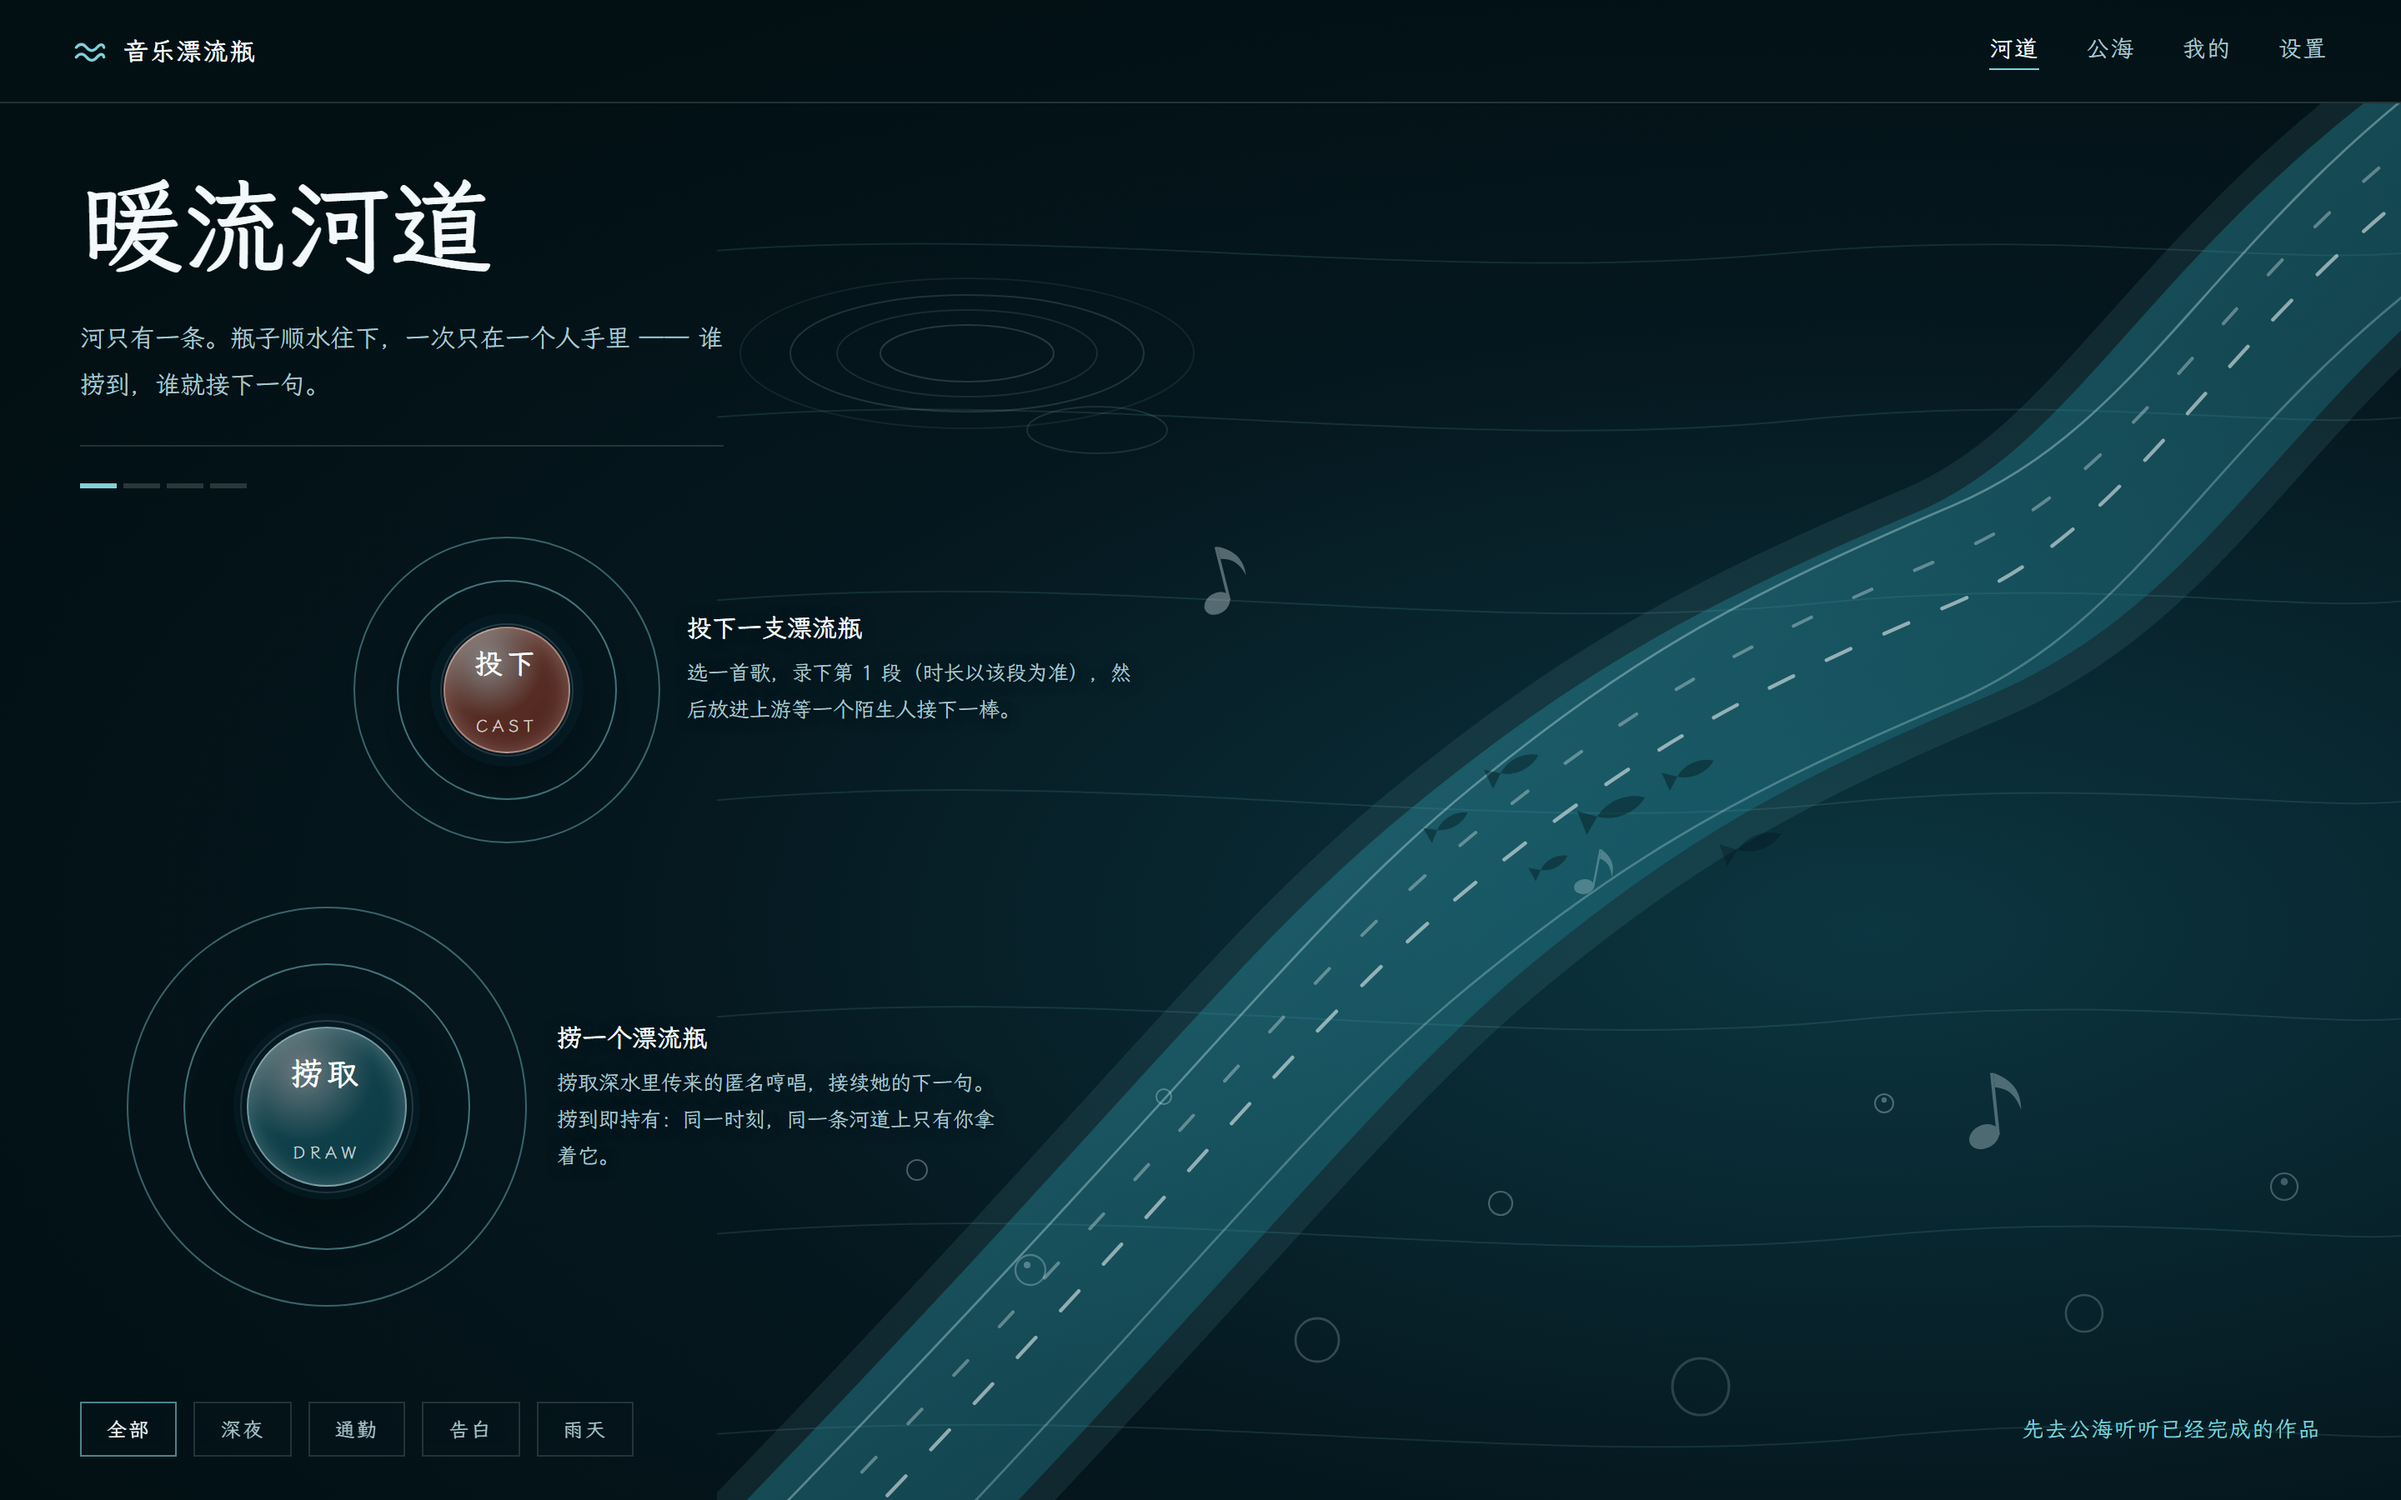
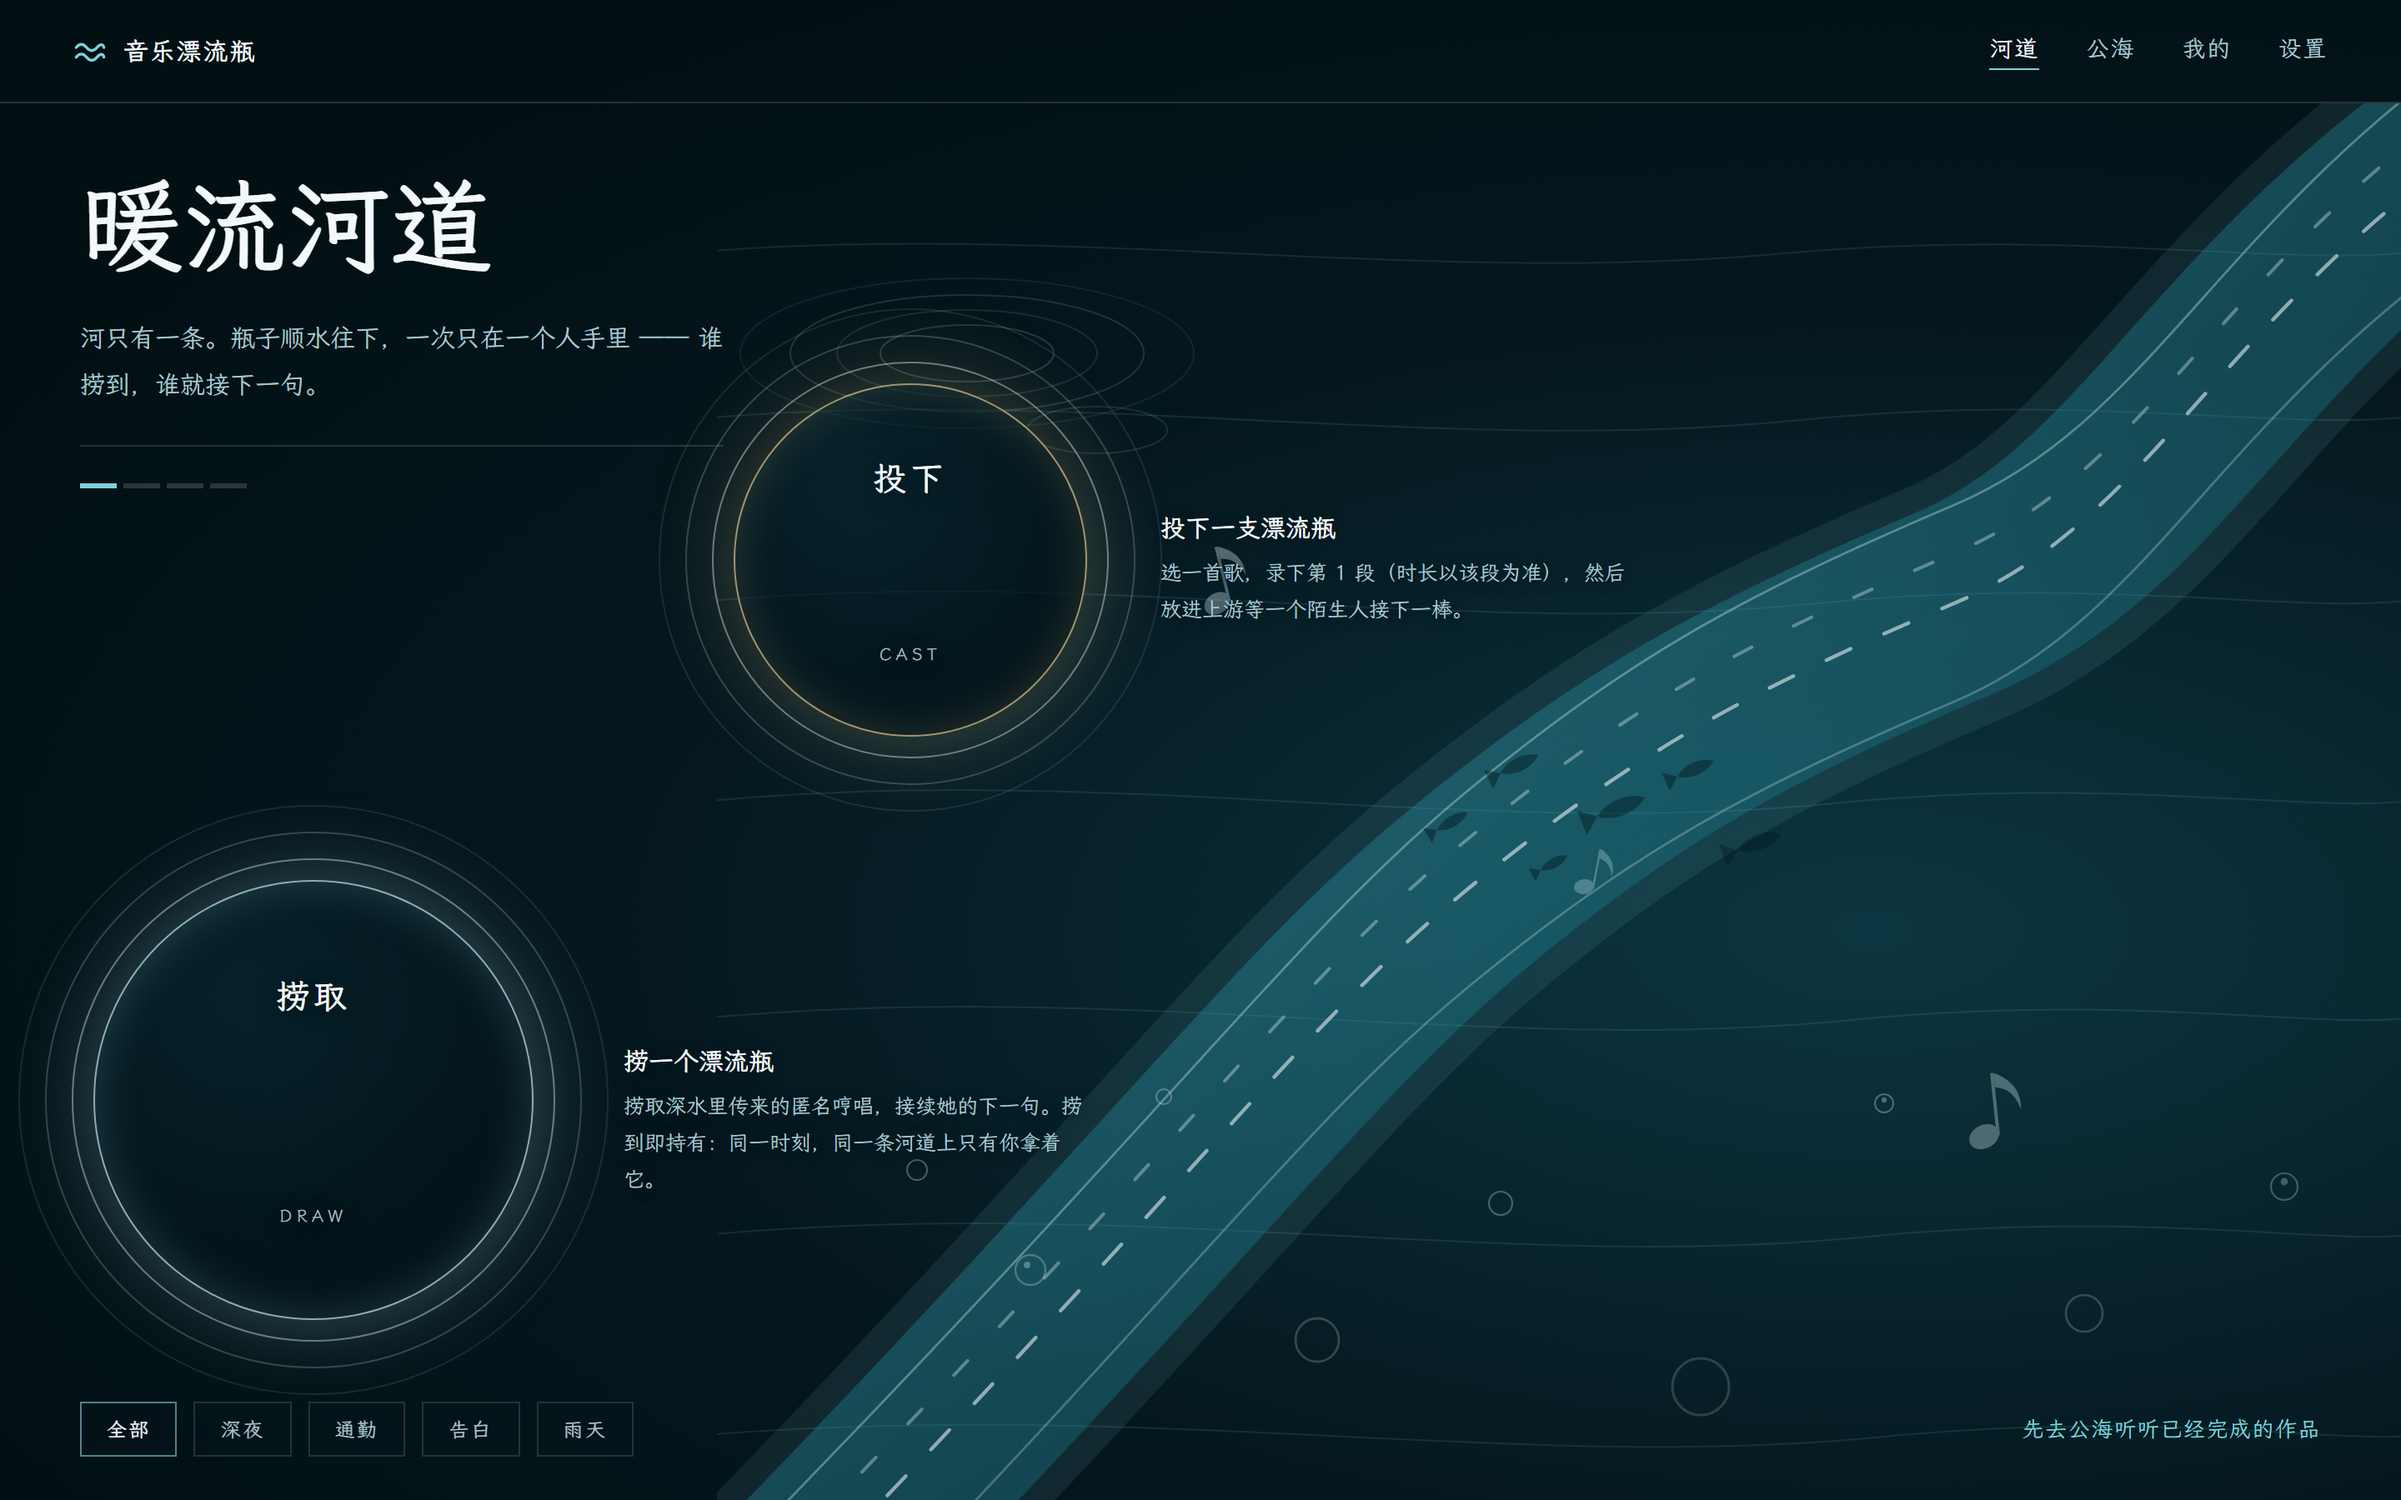
docs(design-explore): 按钮照搬 g3（深色半透盘 + 边缘冷/暖微光，盘身不填色）+ F1 按钮放大到明显大于 F4
用户裁决：『有颜色太丑了，按钮直接照搬 g3』。照抄 g3 的 .orb 数值：深色半透径向盘（76% 76% at 34% 26%，rgba(10,48,60,.46)→rgba(3,17,23,.74)）、1px 亮边、外环 13/29/45px；颜色只留在边缘微光上（捞取=冰青 cold、投下=淡金 warm），**盘身不再填珊瑚/孔雀色**。

用户裁决：『f1 的按钮扩大到至少比 f4 还大』。F1：捞取 264、投下 212（F4 是 156）；两枚仍不同尺寸、错落。同时把说明文字外移以避开新增的外环（F4 也一样）。

影响面（写进待办，不算完成）：① 主 CTA 从此不再是 DESIGN.md 里的 peacock/coral 填充，『coral 只用于 CTA 强调』那条口径事实上失效，写契约时要一并改；② F1 的两个圆盘已占左半约四成面积，再放大就需要重排标题/副标题区域。

diff --git a/docs/ui-review/design-explore/f1-above.html b/docs/ui-review/design-explore/f1-above.html
@@ -42,18 +42,19 @@
       .meter i.on { background: var(--glass); }
 
       /* 圆形主按钮（用户第 ① 条：保留圆形 + 同心环），骑在河道上 */
+      /* 泊位：照搬 g3 的按钮（深色半透圆盘 + 亮边 + 外环），盘身不填彩色 —— 用户："有颜色太丑了" */
       .port { position:absolute; display:grid; place-items:center; cursor:pointer; z-index:3; }
-      .port i { position:absolute; border-radius:50%; }
-      .port .r1 { inset:0; border:1px solid rgba(127,209,217,.42); }
-      .port .r2 { inset:24px; border:1px solid rgba(127,209,217,.5); }
-      .port .r3 { inset:48px; border:1px solid rgba(224,246,249,.58); }
-      .port .core { position:relative; width:104px; height:104px; border-radius:50%; display:grid; place-items:center; gap:2px;
-        font-family:inherit; font-size:16px; font-weight:700; letter-spacing:.14em; color:#fff; }
-      .port .core span { font-size:10px; letter-spacing:.28em; opacity:.75; font-weight:400; }
-      .draw .core { background:radial-gradient(circle at 34% 26%, rgba(240,252,254,.44), rgba(42,157,177,.32) 46%, rgba(11,78,91,.62) 100%);
-        border:1px solid rgba(216,243,246,.5); box-shadow:0 0 0 8px rgba(6,28,37,.72), inset 0 1px 14px rgba(255,255,255,.26), 0 12px 34px rgba(0,0,0,.4); }
-      .cast .core { background:radial-gradient(circle at 34% 26%, rgba(255,238,232,.5), rgba(210,80,47,.4) 46%, rgba(120,36,20,.62) 100%);
-        border:1px solid rgba(255,228,218,.5); box-shadow:0 0 0 8px rgba(6,28,37,.72), inset 0 1px 14px rgba(255,255,255,.28), 0 12px 34px rgba(0,0,0,.4); }
+      .port i { position:absolute; border-radius:50%; pointer-events:none; }
+      .port .r1 { inset:-13px; border:1.5px solid rgba(228,249,252,.42); }
+      .port .r2 { inset:-29px; border:1px solid rgba(228,249,252,.2); }
+      .port .r3 { inset:-45px; border:1px solid rgba(228,249,252,.1); }
+      .port .core { position:relative; width:100%; height:100%; border-radius:50%; display:grid; place-items:center; gap:3px;
+        font-family:inherit; font-size:20px; font-weight:700; letter-spacing:.12em; color:#f3f9fa;
+        background:radial-gradient(76% 76% at 34% 26%, rgba(10,48,60,.5), rgba(3,17,23,.78));
+        text-shadow:0 1px 12px rgba(3,16,22,.95); }
+      .port .core span { font-size:10px; letter-spacing:.28em; opacity:.7; font-weight:400; }
+      .draw .core { border:1px solid rgba(203,238,246,.7); box-shadow:0 0 52px rgba(178,232,244,.3), inset 0 0 28px rgba(160,226,240,.2); }
+      .cast .core { border:1px solid rgba(246,215,154,.66); box-shadow:0 0 52px rgba(246,215,154,.26), inset 0 0 28px rgba(246,215,154,.16); }
       .port .cap { position:absolute; width:290px; font-size:12.5px; line-height:1.75; color:var(--muted);
         text-shadow:0 1px 8px rgba(3,20,26,.95); }
       .port .cap b { display:block; color:var(--paper); font-size:15px; margin-bottom:3px; }
@@ -223,15 +224,15 @@
       <div class="meter"><i class="on"></i><i></i><i></i><i></i></div>
     </div>
 
-    <div class="port draw ov" style="left:76px; top:544px; width:240px; height:240px" role="button" aria-label="捞一个漂流瓶">
-      <i class="r1" style="inset:0"></i><i class="r2" style="inset:34px"></i><i class="r3" style="inset:68px"></i>
-      <span class="core" style="width:96px;height:96px;font-size:19px">捞取<span>DRAW</span></span>
-      <span class="cap" style="left:258px; top:66px; width:270px"><b>捞一个漂流瓶</b>捞取深水里传来的匿名哼唱，接续她的下一句。捞到即持有：同一时刻，同一条河道上只有你拿着它。</span>
+    <div class="port draw ov" style="left:56px; top:528px; width:264px; height:264px" role="button" aria-label="捞一个漂流瓶">
+      <i class="r1"></i><i class="r2"></i><i class="r3"></i>
+      <span class="core">捞取<span>DRAW</span></span>
+      <span class="cap" style="left:318px; top:96px; width:280px"><b>捞一个漂流瓶</b>捞取深水里传来的匿名哼唱，接续她的下一句。捞到即持有：同一时刻，同一条河道上只有你拿着它。</span>
     </div>
-    <div class="port cast ov" style="left:212px; top:322px; width:184px; height:184px" role="button" aria-label="投下一支漂流瓶">
-      <i class="r1" style="inset:0"></i><i class="r2" style="inset:26px"></i><i class="r3" style="inset:52px"></i>
-      <span class="core" style="width:76px;height:76px;font-size:17px">投下<span>CAST</span></span>
-      <span class="cap" style="left:200px; top:42px; width:268px"><b>投下一支漂流瓶</b>选一首歌，录下第 1 段（时长以该段为准），然后放进上游等一个陌生人接下一棒。</span>
+    <div class="port cast ov" style="left:440px; top:230px; width:212px; height:212px" role="button" aria-label="投下一支漂流瓶">
+      <i class="r1"></i><i class="r2"></i><i class="r3"></i>
+      <span class="core">投下<span>CAST</span></span>
+      <span class="cap" style="left:256px; top:74px; width:280px"><b>投下一支漂流瓶</b>选一首歌，录下第 1 段（时长以该段为准），然后放进上游等一个陌生人接下一棒。</span>
     </div>
 
     <footer>

diff --git a/docs/ui-review/design-explore/f4-groove.html b/docs/ui-review/design-explore/f4-groove.html
@@ -30,18 +30,19 @@
       .note b { color:var(--glass); font-weight:400; }
       .rpm { font-family:Quattrocento,serif; font-size:26px; color:var(--glass); }
 
-      .port { position:absolute; display:grid; place-items:center; cursor:pointer; }
-      .port i { position:absolute; border-radius:50%; }
-      .port .r1 { inset:0; border:1px solid rgba(127,209,217,.42); }
-      .port .r2 { inset:24px; border:1px solid rgba(127,209,217,.5); }
-      .port .r3 { inset:48px; border:1px solid rgba(224,246,249,.58); }
-      .port .core { position:relative; width:104px; height:104px; border-radius:50%; display:grid; place-items:center; gap:2px;
-        font-family:inherit; font-size:16px; font-weight:700; letter-spacing:.14em; color:#fff; }
-      .port .core span { font-size:10px; letter-spacing:.28em; opacity:.75; font-weight:400; }
-      .draw .core { background:radial-gradient(circle at 34% 26%, rgba(240,252,254,.46), rgba(42,157,177,.34) 46%, rgba(11,78,91,.62) 100%);
-        border:1px solid rgba(216,243,246,.5); box-shadow:0 0 0 8px rgba(5,15,20,.72), inset 0 1px 14px rgba(255,255,255,.26), 0 0 46px rgba(42,157,177,.42); }
-      .cast .core { background:radial-gradient(circle at 34% 26%, rgba(255,238,232,.5), rgba(210,80,47,.42) 46%, rgba(120,36,20,.62) 100%);
-        border:1px solid rgba(255,228,218,.5); box-shadow:0 0 0 8px rgba(5,15,20,.72), inset 0 1px 14px rgba(255,255,255,.28), 0 0 46px rgba(199,69,44,.4); }
+      /* 泊位：照搬 g3 的按钮（深色半透圆盘 + 亮边 + 外环），盘身不填彩色 —— 用户："有颜色太丑了" */
+      .port { position:absolute; display:grid; place-items:center; cursor:pointer; z-index:3; }
+      .port i { position:absolute; border-radius:50%; pointer-events:none; }
+      .port .r1 { inset:-13px; border:1.5px solid rgba(228,249,252,.42); }
+      .port .r2 { inset:-29px; border:1px solid rgba(228,249,252,.2); }
+      .port .r3 { inset:-45px; border:1px solid rgba(228,249,252,.1); }
+      .port .core { position:relative; width:100%; height:100%; border-radius:50%; display:grid; place-items:center; gap:3px;
+        font-family:inherit; font-size:20px; font-weight:700; letter-spacing:.12em; color:#f3f9fa;
+        background:radial-gradient(76% 76% at 34% 26%, rgba(10,48,60,.5), rgba(3,17,23,.78));
+        text-shadow:0 1px 12px rgba(3,16,22,.95); }
+      .port .core span { font-size:10px; letter-spacing:.28em; opacity:.7; font-weight:400; }
+      .draw .core { border:1px solid rgba(203,238,246,.7); box-shadow:0 0 52px rgba(178,232,244,.3), inset 0 0 28px rgba(160,226,240,.2); }
+      .cast .core { border:1px solid rgba(246,215,154,.66); box-shadow:0 0 52px rgba(246,215,154,.26), inset 0 0 28px rgba(246,215,154,.16); }
       .port .cap { position:absolute; width:290px; font-size:12.5px; line-height:1.75; color:var(--muted);
         text-shadow:0 1px 8px rgba(2,10,14,.95); }
       .port .cap b { display:block; color:var(--paper); font-size:15px; margin-bottom:3px; }
@@ -174,12 +175,12 @@
     <div class="port draw ov" style="left:496px; top:574px; width:156px; height:156px" role="button" aria-label="捞一个漂流瓶">
       <i class="r1"></i><i class="r2"></i><i class="r3"></i>
       <span class="core">捞取<span>DRAW</span></span>
-      <span class="cap" style="left:-116px; top:172px"><b>捞一个漂流瓶</b>捞到即持有：同一时刻，同一条河道上只有你拿着它。</span>
+      <span class="cap" style="left:-136px; top:214px; width:300px"><b>捞一个漂流瓶</b>捞到即持有：同一时刻，同一条河道上只有你拿着它。</span>
     </div>
     <div class="port cast ov" style="left:865px; top:119px; width:156px; height:156px" role="button" aria-label="投下一支漂流瓶">
       <i class="r1"></i><i class="r2"></i><i class="r3"></i>
       <span class="core">投下<span>CAST</span></span>
-      <span class="cap" style="left:180px; top:34px"><b>投下一支漂流瓶</b>选一首歌，录下第 1 段，然后放进上游等一个陌生人接下一棒。</span>
+      <span class="cap" style="left:252px; top:58px; width:300px"><b>投下一支漂流瓶</b>选一首歌，录下第 1 段，然后放进上游等一个陌生人接下一棒。</span>
     </div>
 
     <footer>
